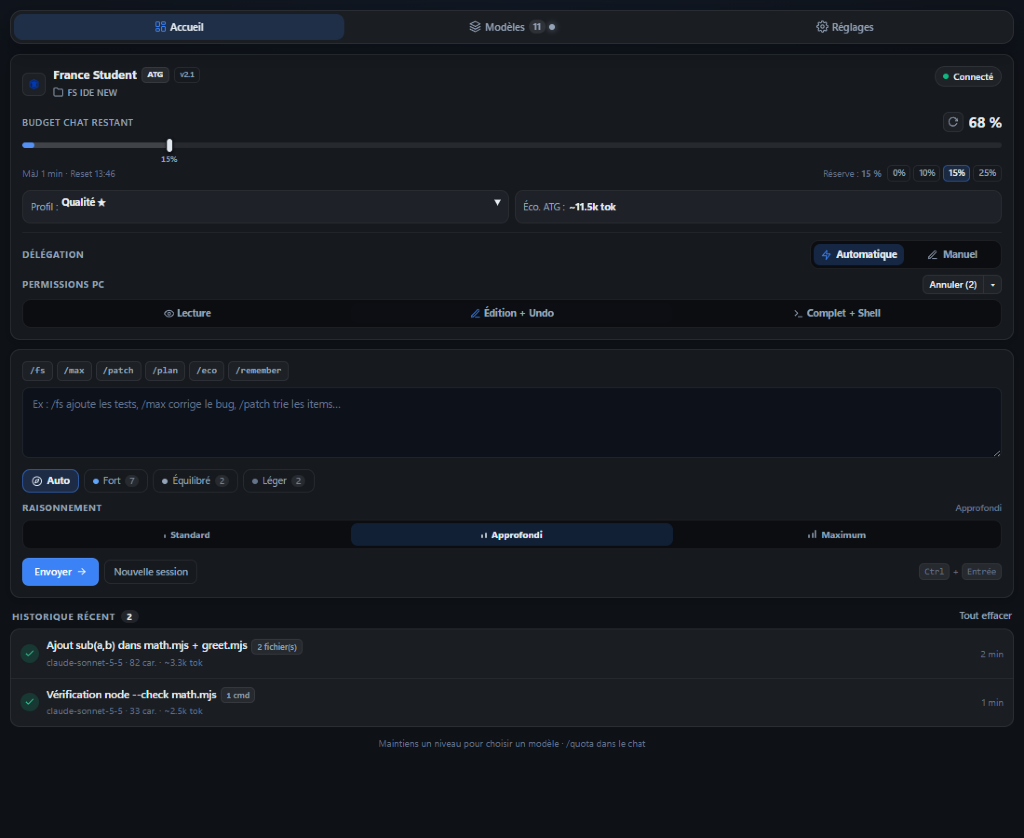
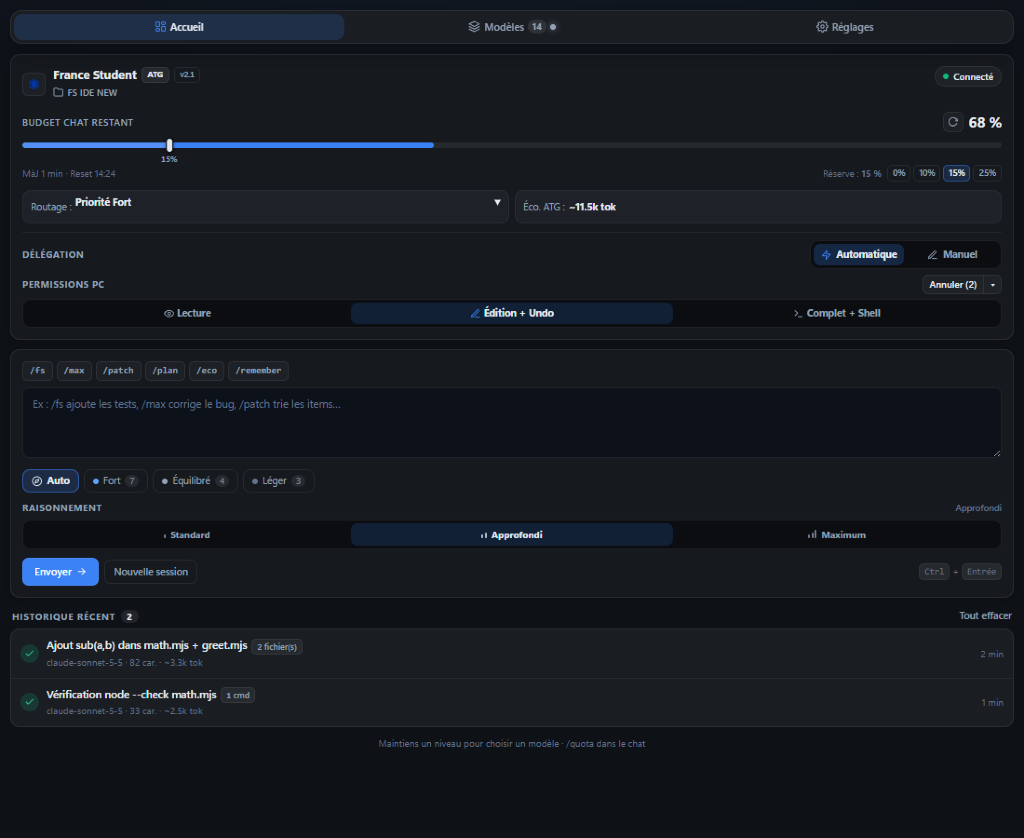
refactor(ui,routing): simplify routing selector to Priorite Fort / Automatique / Eco, remove duplicate profiles and stars, clarify parallel tasks toggle

Changed region(s): [[0.3438, 0.3413, 0.6562, 0.4033], [0.0312, 0.1551, 0.4375, 0.1862], [0.0312, 0.2172, 0.125, 0.2482]]

diff --git a/plugin/sidecars/fs_atg_panel/index.html b/plugin/sidecars/fs_atg_panel/index.html
@@ -727,13 +727,11 @@
 
       <div class="hero-pills">
         <div class="synth-pill" id="profilePill">
-          <span>Profil :</span>
-          <select id="heroProfileSelect" class="pill-select" title="Changer de profil directement">
-            <option value="quality">Qualité ★</option>
-            <option value="eco">Éco</option>
-            <option value="fast">Rapide</option>
-            <option value="security">Sécurité ★</option>
-            <option value="refactor">Refonte ★</option>
+          <span>Routage :</span>
+          <select id="heroProfileSelect" class="pill-select" title="Choisir le mode de sélection du modèle">
+            <option value="quality">Priorité Fort</option>
+            <option value="auto">Automatique</option>
+            <option value="eco">Éco (léger)</option>
           </select>
         </div>
         <div class="synth-pill" id="savingsPill">Éco. ATG : <strong>0 tok</strong></div>
@@ -940,21 +938,19 @@
           </div>
         </div>
         <div class="field">
-          <label>Profil de routage par défaut</label>
+          <label>Choix automatique du modèle</label>
           <select id="routingProfileInput" disabled>
-            <option value="quality">Qualité — Modèles forts (recommandé)</option>
-            <option value="eco">Éco — Modèles légers</option>
-            <option value="fast">Rapide — Latence minimale</option>
-            <option value="security">Sécurité — Modèles forts</option>
-            <option value="refactor">Refonte — Modèles forts</option>
+            <option value="quality">Priorité Fort — Meilleurs modèles (recommandé)</option>
+            <option value="auto">Automatique — Adapté à la complexité de la tâche</option>
+            <option value="eco">Éco — Modèles légers et rapides (économie de quota)</option>
           </select>
         </div>
         <div class="grid-2">
           <div class="field">
-            <label>Exécution locale</label>
+            <label>Tâches simultanées</label>
             <div class="seg" id="mode">
-              <button type="button" data-mode="eco">Éco</button>
-              <button type="button" data-mode="fast">Rapide</button>
+              <button type="button" data-mode="eco">1 à la fois</button>
+              <button type="button" data-mode="fast">Parallèle</button>
             </div>
           </div>
           <div class="field">
@@ -1213,6 +1209,11 @@
       if (n >= 1_000) return (n / 1_000).toFixed(1) + 'k';
       return String(n);
     }
+    function normalizeUiProfile(p) {
+      if (p === 'auto') return 'auto';
+      if (p === 'eco' || p === 'fast') return 'eco';
+      return 'quality';
+    }
     function shortModel(id) { return String(id || '').replace(/^cb\//, ''); }
 
     function switchTab(tab) {
@@ -1275,7 +1276,7 @@
     function showTierPopover(tier, anchorEl) {
       const tm = S.tierModels || { light: [], medium: [], heavy: [] };
       const list = tm[tier] || [];
-      const titles = { light: 'Modèles légers', medium: 'Modèles équilibrés', heavy: 'Modèles forts ★' };
+      const titles = { light: 'Modèles légers', medium: 'Modèles équilibrés', heavy: 'Modèles forts' };
       $('popTitle').textContent = titles[tier] || 'Modèles';
       const modelsAvailable = S.modelAvailability?.available === true;
       $('popList').innerHTML = list.length
@@ -1527,7 +1528,7 @@
       $('useClientToolsInput').checked = S.useClientTools !== false;
       $('prepromptInput').value = S.projectMemory?.preprompt || '';
       $('contextCompactInput').value = S.contextCompactPercent ?? 80;
-      $('routingProfileInput').value = S.routingProfile || 'quality';
+      $('routingProfileInput').value = normalizeUiProfile(S.routingProfile);
       $('tierLightInput').value = (S.tiers?.light || []).join(', ');
       $('tierMediumInput').value = (S.tiers?.medium || []).join(', ');
       $('tierHeavyInput').value = (S.tiers?.heavy || []).join(', ');
@@ -1648,7 +1649,7 @@
       if (qObj?.resetAt) metaParts.push('Reset ' + new Date(qObj.resetAt).toLocaleTimeString('fr-FR', { hour: '2-digit', minute: '2-digit' }));
       $('qtxt').textContent = metaParts.join(' · ') || 'Quota France Student';
 
-      $('heroProfileSelect').value = S.routingProfile || 'quality';
+      $('heroProfileSelect').value = normalizeUiProfile(S.routingProfile);
       const sav = S.antigravitySavings;
       $('savingsPill').innerHTML = sav?.jobsOffloaded
         ? `Éco. ATG : <strong>~${fmtNum(sav.totalTokensSavedEst)} tok</strong>`
@@ -1924,7 +1925,7 @@
     $('heroProfileSelect').addEventListener('change', async (e) => {
       try {
         await api('/api/settings', { routingProfile: e.target.value });
-        flash('Profil mis à jour');
+        flash('Routage mis à jour');
         await poll();
       } catch (err) { flash(err.message, 'toast', true); }
     });
@@ -2067,7 +2068,7 @@
     });
     document.querySelectorAll('#mode button').forEach((b) => {
       b.onclick = async () => {
-        try { await api('/api/settings', { mode: b.dataset.mode }); await poll(); flash(`Exécution : ${b.dataset.mode === 'eco' ? 'Éco' : 'Rapide'}`, 'essentialToast'); }
+        try { await api('/api/settings', { mode: b.dataset.mode }); await poll(); flash(`Tâches simultanées : ${b.dataset.mode === 'eco' ? '1 à la fois' : 'Parallèle'}`, 'essentialToast'); }
         catch (e) { flash(e.message, 'essentialToast', true); }
       };
     });
